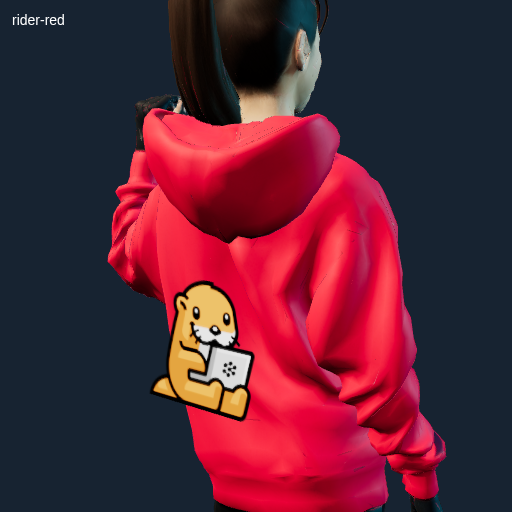
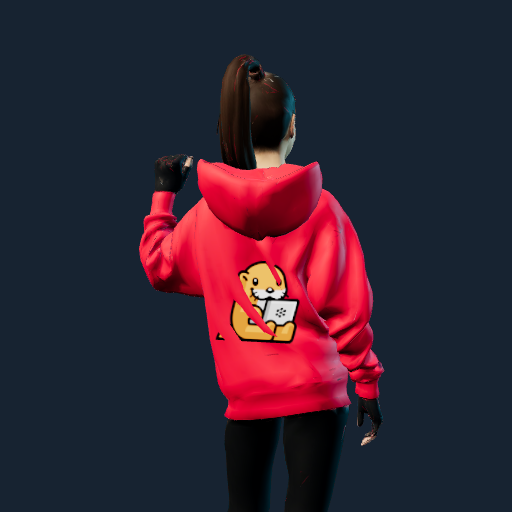
fix: refine rider portraits and back print

diff --git a/src/render/rider.js b/src/render/rider.js
@@ -6,6 +6,11 @@ const HALF_BASE = 0.575;
 const PEDAL_R = 0.17;
 const CRANK_Y = WHEEL_R + PEDAL_R;
 const CRANK_Z = 0.02;
+const BACK_PRINT_OFFSET = 0.13;
+const RIDER_RIG_CORRECTIONS = {
+  'rider-red': { yaw: 0 },
+  'rider-black': { yaw: 0 },
+};
 
 function bar(material, from, to, thickness = 0.045) {
   const a = new THREE.Vector3(...from);
@@ -303,6 +308,7 @@ export function createRiderModel() {
   let assetFrontWheel = null;
   let assetRearWheel = null;
   let riderCorners = [];
+  let backPrintMesh = null;
   let lastAirSpeed = 0;
   let wasAirborne = false;
   let assetStatus = { ready: false, reason: 'Assets have not been applied' };
@@ -310,7 +316,13 @@ export function createRiderModel() {
   let wavePoseActive = false;
   let wavePoseTime = 0;
 
-  function setAssets({ riderBody, bikeFrame, bikeWheel, backPrint } = {}) {
+  function setAssets({
+    riderBody,
+    bikeFrame,
+    bikeWheel,
+    backPrint,
+    riderId = 'rider-body',
+  } = {}) {
     const failAssetSetup = (reason, details = {}) => {
       assetHolder.clear();
       assetHolder.visible = false;
@@ -323,6 +335,7 @@ export function createRiderModel() {
     }
     assetStatus = { ready: false, reason: 'Validating rider and bike models' };
     assetHolder.clear();
+    backPrintMesh = null;
     assetHolder.scale.setScalar(1);
     assetHolder.position.set(0, 0, 0);
     assetHolder.rotation.set(0, 0, 0);
@@ -330,6 +343,7 @@ export function createRiderModel() {
     assetRiderMotion = new THREE.Group();
     assetHolder.add(assetBikeMotion, assetRiderMotion);
 
+    const rigCorrection = RIDER_RIG_CORRECTIONS[riderId];
     const bikeScene = bikeFrame.scene;
     const bikeBox = new THREE.Box3().setFromObject(bikeScene);
     const bikeSize = bikeBox.getSize(new THREE.Vector3());
@@ -354,9 +368,10 @@ export function createRiderModel() {
     riderRoot.add(riderScene);
     assetRiderMotion.add(riderRoot);
 
-    const bikeScale = (2 * HALF_BASE) / bikeSize.z;
+    const bikeLongAxis = bikeSize.x > bikeSize.z ? 'x' : 'z';
+    const bikeScale = (2 * HALF_BASE) / Math.max(bikeSize.x, bikeSize.z);
     bikeAsset.scale.setScalar(bikeScale);
-    bikeAsset.rotation.y = Math.PI;
+    bikeAsset.rotation.y = bikeLongAxis === 'x' ? Math.PI / 2 : Math.PI;
     bikeAsset.position.y = WHEEL_R;
     bikeScene.position.set(-bikeCenter.x, -bikeBox.min.y, -bikeCenter.z);
 
@@ -389,7 +404,7 @@ export function createRiderModel() {
     };
 
     riderRoot.scale.setScalar(1.7 / riderSize.y);
-    riderRoot.rotation.y = Math.PI;
+    riderRoot.rotation.y = Math.PI + (rigCorrection?.yaw ?? 0);
     riderBaseY = WHEEL_R - riderBox.min.y * riderRoot.scale.y;
     riderRoot.position.set(0, riderBaseY, 0);
 
@@ -442,7 +457,7 @@ export function createRiderModel() {
           map: backPrint,
           transparent: true,
           depthWrite: false,
-          depthTest: false,
+          depthTest: true,
           side: THREE.DoubleSide,
           polygonOffset: true,
           polygonOffsetFactor: -2,
@@ -453,7 +468,7 @@ export function createRiderModel() {
       const riderRotation = riderRoot.getWorldQuaternion(new THREE.Quaternion());
       const backDirection = new THREE.Vector3(0, 0, -1).applyQuaternion(riderRotation).normalize();
       const printWorldPosition = boneWorldPosition(bones.spine2)
-        .addScaledVector(backDirection, 0.2);
+        .addScaledVector(backDirection, BACK_PRINT_OFFSET);
       printWorldPosition.y += 0.04;
       print.position.copy(bones.spine2.worldToLocal(printWorldPosition));
       print.scale.set(1 / Math.abs(spineScale.x), 1 / Math.abs(spineScale.y), 1 / Math.abs(spineScale.z));
@@ -464,6 +479,7 @@ export function createRiderModel() {
       );
       print.renderOrder = 2;
       bones.spine2.add(print);
+      backPrintMesh = print;
     }
 
     const leftShoulder = boneWorldPosition(bones.leftShoulder);
@@ -733,6 +749,15 @@ export function createRiderModel() {
         .copy(bindBones.get(riderBones.rightForeArm).quaternion)
         .multiply(new THREE.Quaternion().setFromEuler(new THREE.Euler(0, 0, wave)));
       riderBones.rightHand.quaternion.copy(bindBones.get(riderBones.rightHand).quaternion);
+    }
+    root.updateMatrixWorld(true);
+    if (backPrintMesh && riderBones.spine2) {
+      const riderRotation = riderRoot.getWorldQuaternion(new THREE.Quaternion());
+      const backDirection = new THREE.Vector3(0, 0, -1).applyQuaternion(riderRotation).normalize();
+      const printWorldPosition = boneWorldPosition(riderBones.spine2)
+        .addScaledVector(backDirection, BACK_PRINT_OFFSET);
+      printWorldPosition.y += 0.04;
+      backPrintMesh.position.copy(riderBones.spine2.worldToLocal(printWorldPosition));
     }
     root.updateMatrixWorld(true);
   }

diff --git a/tools/assets/rider-preview.html b/tools/assets/rider-preview.html
@@ -8,6 +8,7 @@
     html, body { margin: 0; width: 100%; height: 100%; overflow: hidden; background: #101824; }
     canvas { display: block; width: 100%; height: 100%; }
     #label { position: fixed; left: 12px; top: 12px; color: white; font: 14px sans-serif; }
+    body[data-portrait="true"] #label { display: none; }
   </style>
   <script type="importmap">
     { "imports": { "three": "../../node_modules/three/build/three.module.js" } }
@@ -18,11 +19,14 @@
   <script type="module">
     import * as THREE from '../../node_modules/three/build/three.module.js';
     import { GLTFLoader } from '../../node_modules/three/examples/jsm/loaders/GLTFLoader.js';
+    import { MeshoptDecoder } from '../../node_modules/three/examples/jsm/libs/meshopt_decoder.module.js';
 
     const query = new URLSearchParams(location.search);
     const name = query.get('name') || 'rider-red';
+    document.body.dataset.portrait = query.get('portrait') === '1' ? 'true' : 'false';
+    const lightCard = query.get('card') === 'light';
     const scene = new THREE.Scene();
-    scene.background = new THREE.Color(0x172331);
+    scene.background = new THREE.Color(lightCard ? 0xd2dce4 : 0x172331);
     const camera = new THREE.PerspectiveCamera(35, innerWidth / innerHeight, 0.01, 100);
     const renderer = new THREE.WebGLRenderer({ antialias: true, preserveDrawingBuffer: true });
     renderer.setSize(innerWidth, innerHeight);
@@ -32,15 +36,21 @@
     renderer.toneMappingExposure = 1.15;
     document.body.append(renderer.domElement);
     scene.add(new THREE.HemisphereLight(0xe6f4ff, 0x263248, 2.2));
-    const key = new THREE.DirectionalLight(0xffe4c4, 3.2);
-    key.position.set(-3, 5, 4);
+    const key = new THREE.DirectionalLight(lightCard ? 0xf5f8ff : 0xffe4c4, 3.2);
+    key.position.set(lightCard ? 4 : -3, 5, lightCard ? -4 : 4);
     scene.add(key);
     const fill = new THREE.DirectionalLight(0x66dfff, 2.2);
     fill.position.set(3, 1, -4);
     scene.add(fill);
+    if (lightCard) {
+      const rim = new THREE.DirectionalLight(0xb9eaff, 2.4);
+      rim.position.set(-3, 4, 4);
+      scene.add(rim);
+    }
     document.querySelector('#label').textContent = name;
 
     const loader = new GLTFLoader();
+    loader.setMeshoptDecoder(MeshoptDecoder);
     const source = query.get('src') || `./raw/models/${name}-rigged.glb`;
     loader.load(source, ({ scene: root }) => {
       root.updateMatrixWorld(true);
@@ -53,9 +63,9 @@
       const radius = Math.max(size.length() * 0.5, 0.4);
       const angle = THREE.MathUtils.degToRad(Number(query.get('angle') || 140));
       const portrait = query.get('portrait') === '1';
-      const distance = radius * (portrait ? 1.45 : 3.1);
+      const distance = portrait ? size.y * 1.25 : radius * 3.1;
       const targetY = portrait ? 0.35 : 0;
-      camera.position.set(Math.sin(angle) * distance, targetY + (portrait ? 0.22 : radius * 0.5), Math.cos(angle) * distance);
+      camera.position.set(Math.sin(angle) * distance, targetY + (portrait ? 0.08 : radius * 0.5), Math.cos(angle) * distance);
       camera.lookAt(0, targetY, 0);
       if (query.get('print') === '1') {
         const spine = root.getObjectByName('Spine02') || root.getObjectByName('spine2');
@@ -65,14 +75,14 @@
             const width = 0.22;
             const badge = new THREE.Mesh(
               new THREE.PlaneGeometry(width, width * 467 / 512),
-              new THREE.MeshBasicMaterial({ map: texture, transparent: true, depthWrite: false, depthTest: false, side: THREE.DoubleSide, polygonOffset: true, polygonOffsetFactor: -2 }),
+              new THREE.MeshBasicMaterial({ map: texture, transparent: true, depthWrite: false, depthTest: true, side: THREE.DoubleSide, polygonOffset: true, polygonOffsetFactor: -2 }),
             );
             root.updateMatrixWorld(true);
             const backDirection = new THREE.Vector3(0, 0, -1)
               .applyQuaternion(root.getWorldQuaternion(new THREE.Quaternion()))
               .normalize();
             const printWorldPosition = spine.getWorldPosition(new THREE.Vector3())
-              .addScaledVector(backDirection, 0.2);
+              .addScaledVector(backDirection, 0.13);
             printWorldPosition.y += 0.04;
             const printWorldRotation = new THREE.Quaternion()
               .setFromUnitVectors(new THREE.Vector3(0, 0, 1), backDirection);

diff --git a/src/main.js b/src/main.js
@@ -1413,10 +1413,12 @@ async function applySelectedRider() {
   const version = ++riderLoadVersion;
   syncRiderUi(true);
   let chosen = null;
+  let chosenId = `rider-${selectedRider}`;
   try {
-    chosen = await loadModel(`rider-${selectedRider}`);
+    chosen = await loadModel(chosenId);
   } catch {
     chosen = baseModels['rider-body'];
+    chosenId = 'rider-body';
   }
   const backPrint = selectedRider === 'red' ? await backPrintPromise.catch(() => null) : null;
   if (version !== riderLoadVersion) return false;
@@ -1425,12 +1427,14 @@ async function applySelectedRider() {
     bikeFrame: clonedAsset(baseModels['bike-frame']),
     bikeWheel: clonedAsset(baseModels['bike-wheel']),
     backPrint,
+    riderId: chosenId,
   });
   ghostAssetsReady = Boolean(riderApplied && ghostModel.setAssets({
     riderBody: clonedAsset(chosen, true),
     bikeFrame: clonedAsset(baseModels['bike-frame']),
     bikeWheel: clonedAsset(baseModels['bike-wheel']),
     backPrint,
+    riderId: chosenId,
   }));
   if (ghostAssetsReady) tintGhost();
   game.ghostAssetsReady = ghostAssetsReady;
